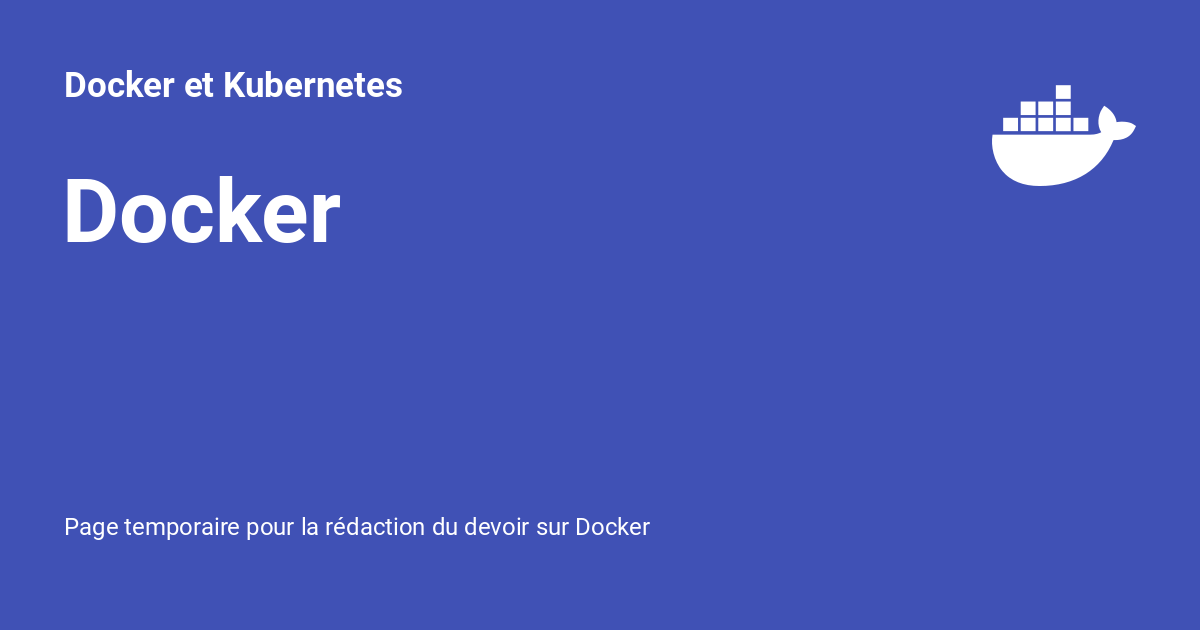
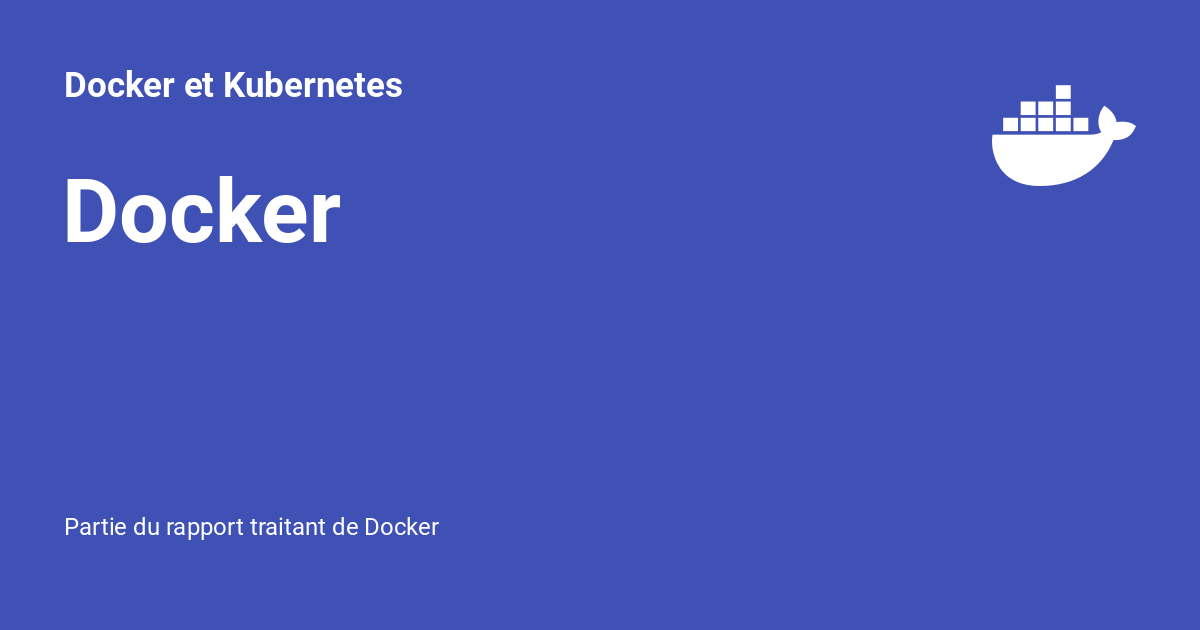
MAJ des metadonnées

Changed region(s): [[0.0617, 0.8143, 0.555, 0.8746]]

diff --git a/docs/index.md b/docs/index.md
@@ -1,6 +1,6 @@
 ---
-title : Docker
-description : Page temporaire pour la rédaction du devoir sur Docker
+title: Docker
+description: Partie du rapport traitant de Docker
 ---
 
 ![Docker logo](https://www.docker.com/wp-content/uploads/2023/08/logo-guide-logos-1.svg)
